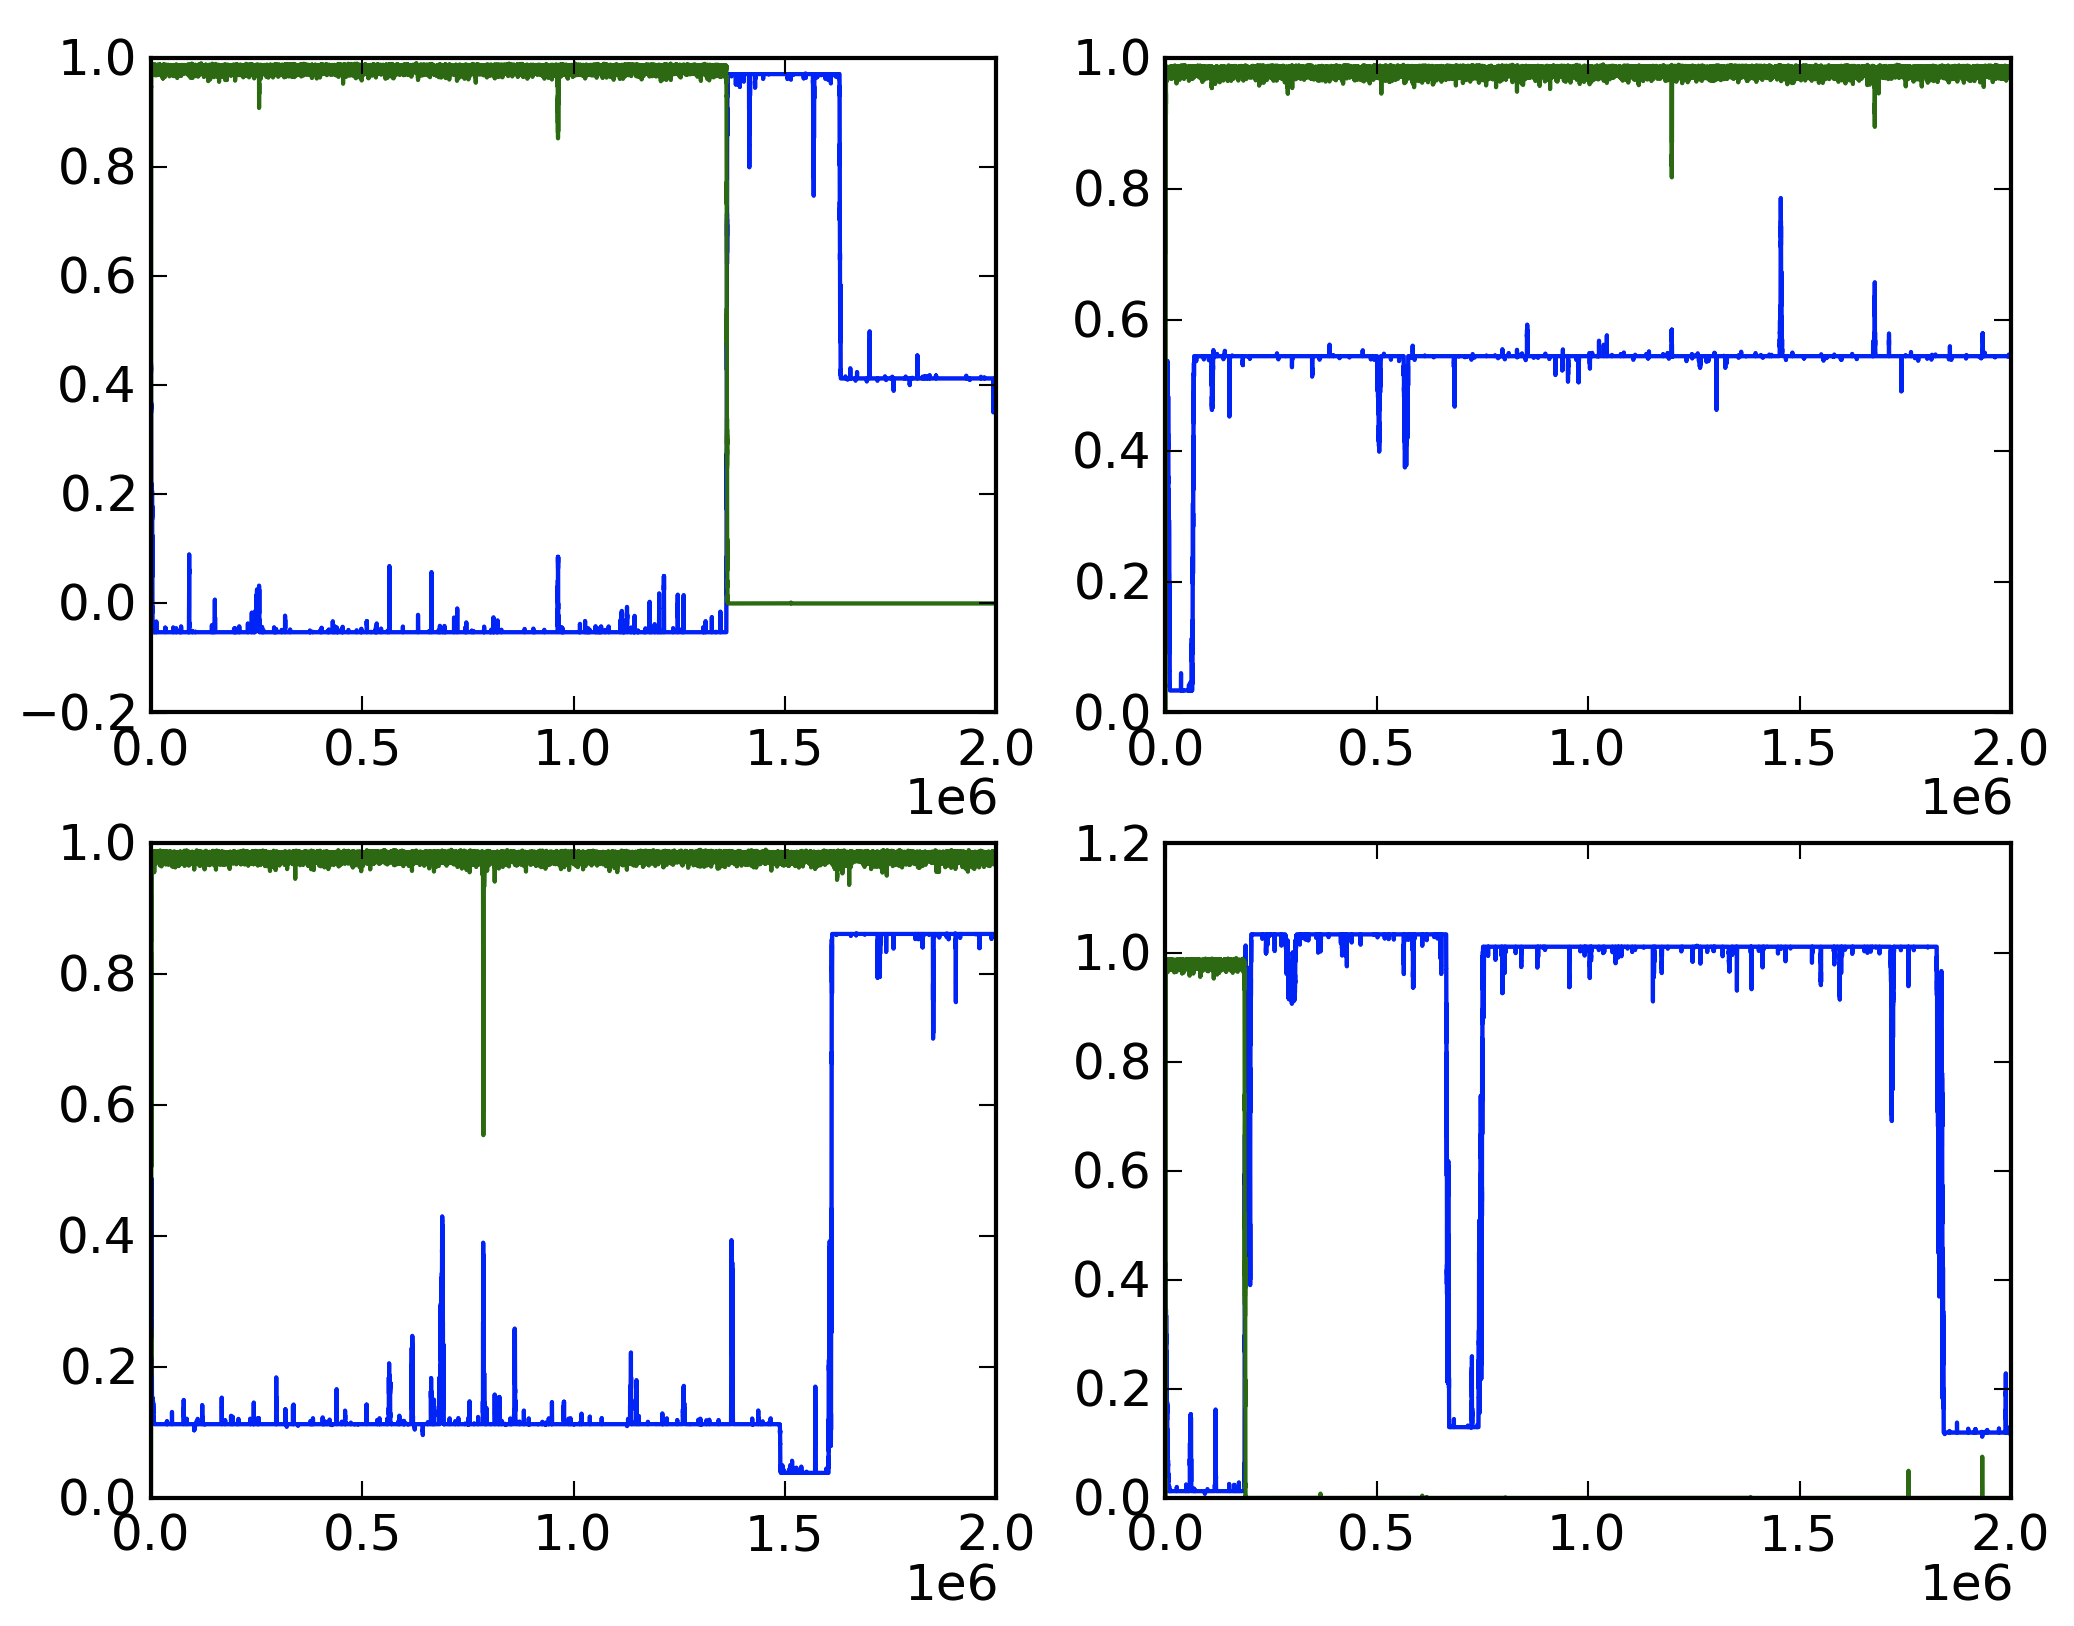
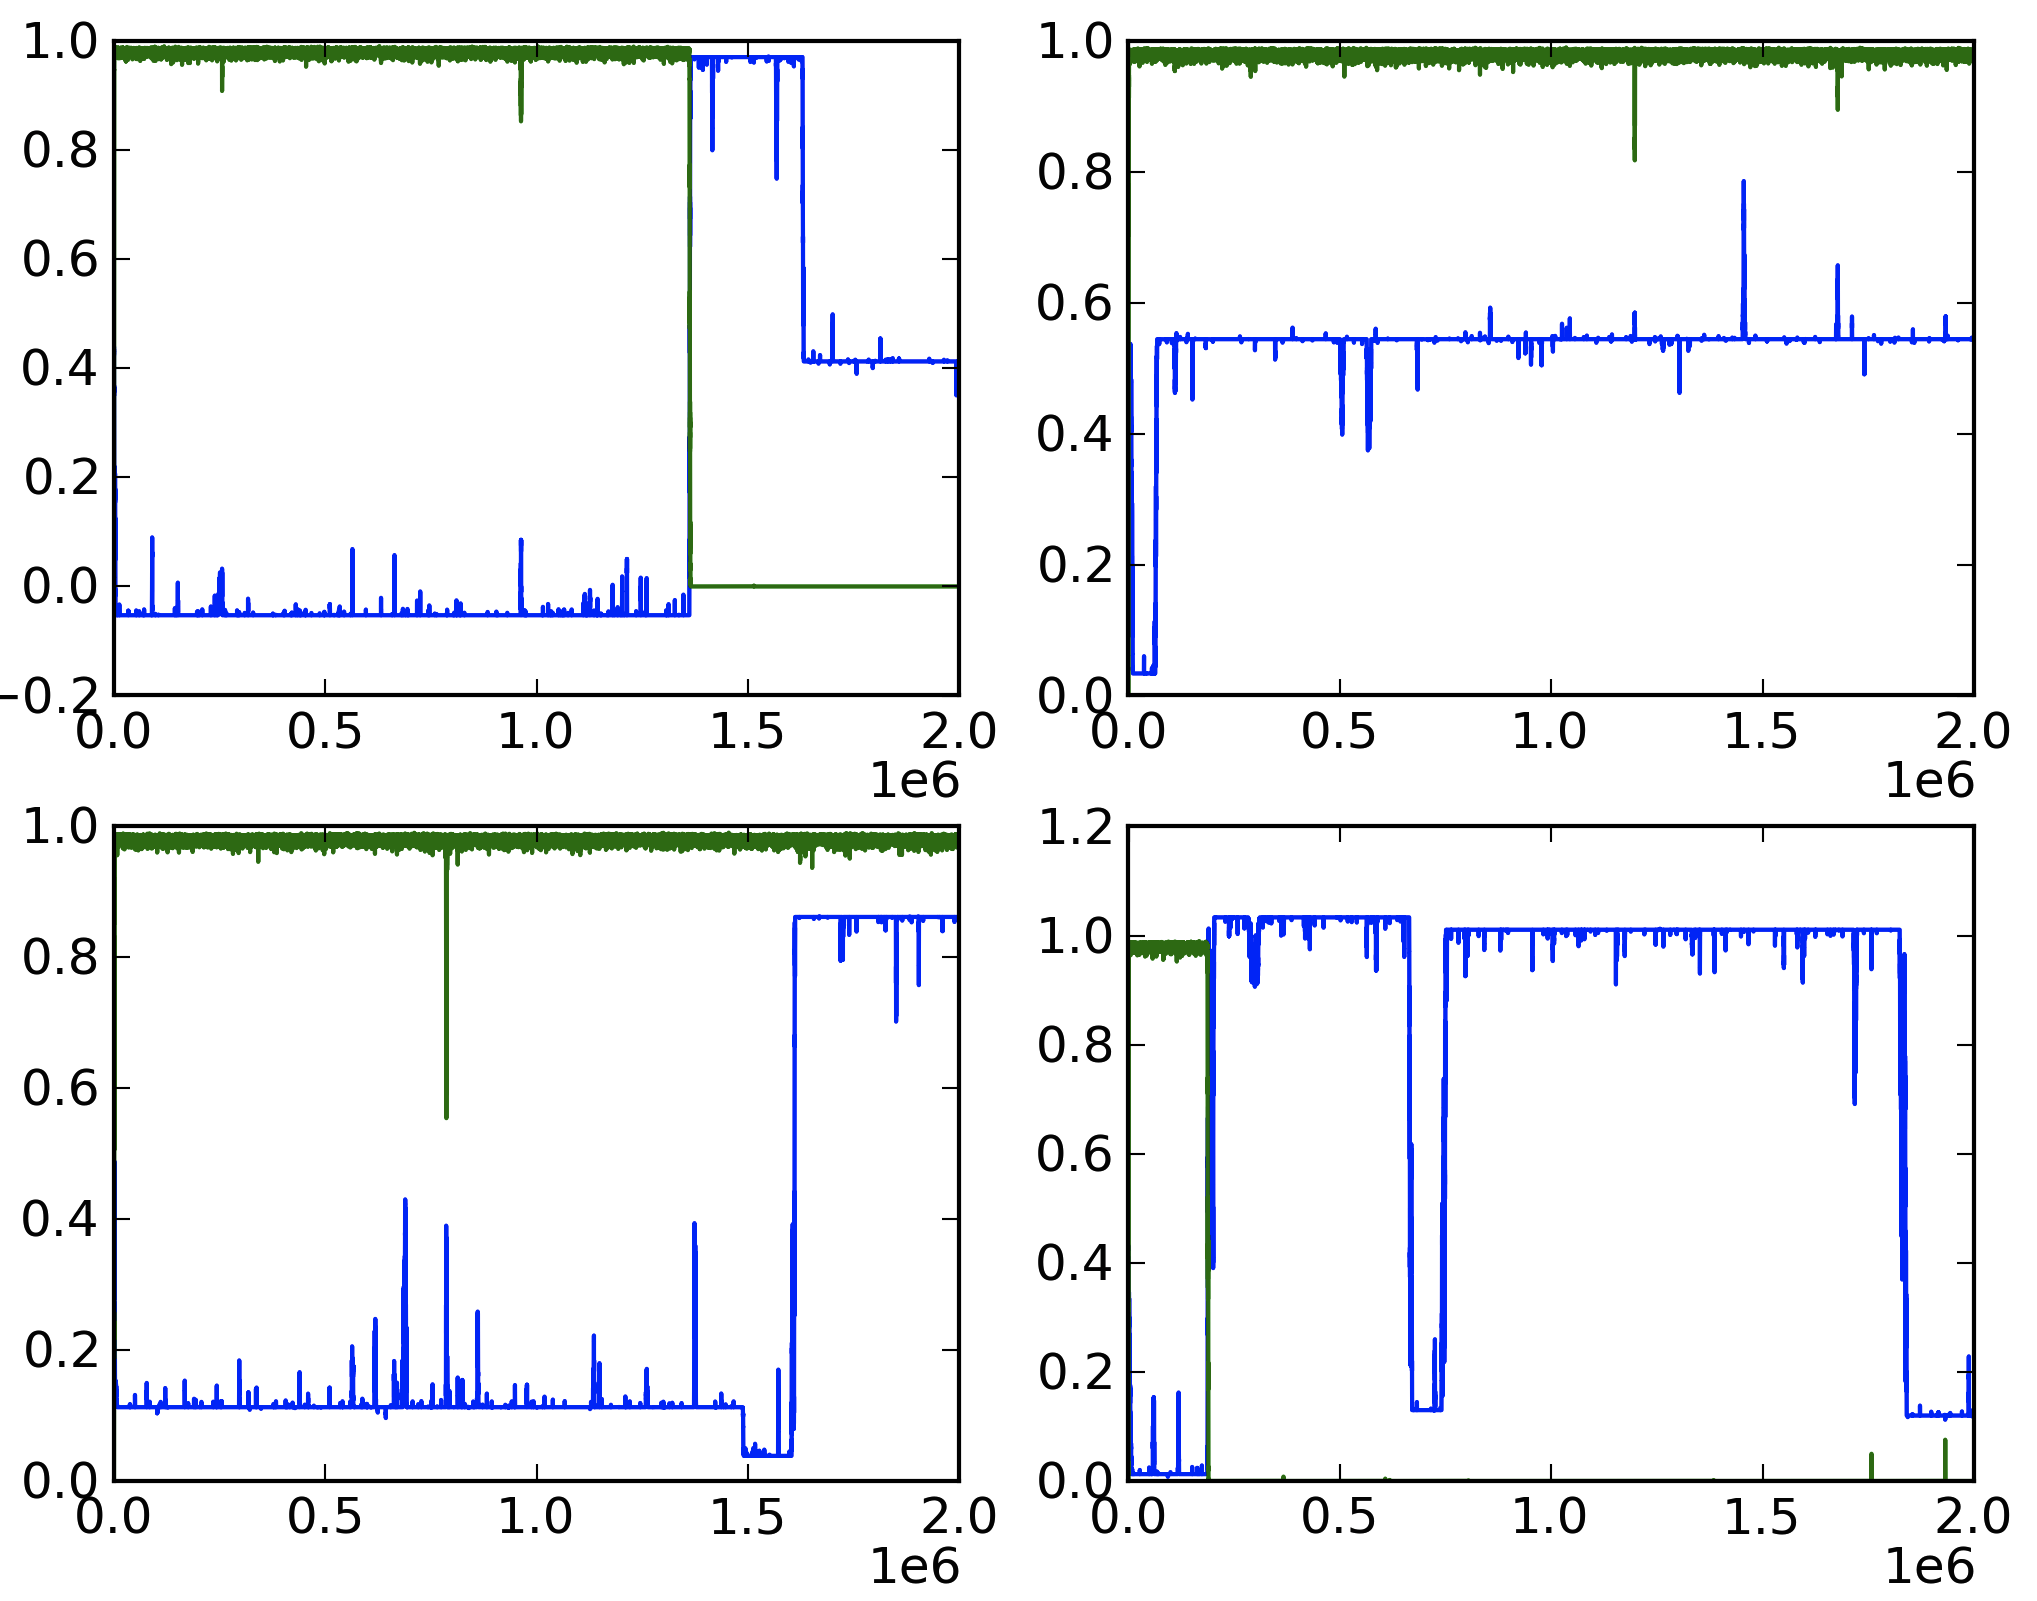
compress space

diff --git a/writeup/writeup.tex b/writeup/writeup.tex
@@ -7,6 +7,9 @@
 \usepackage[lmargin=1.5in, tmargin=1.25in, 
             rmargin=1.5in, bmargin=1.25in]{geometry}
 
+\setlength{\abovecaptionskip}{3pt}
+\setlength{\belowcaptionskip}{2pt}
+
 \newcommand{\lf}{\left}
 \newcommand{\ri}{\right}
 \newcommand{\eps}{\epsilon}
@@ -439,8 +442,8 @@ seen in Figures \ref{fig:really}--\subref{fig:what} below.
 \begin{figure}[h!tbp]
   \begin{subfigure}{.485\linewidth}
     \includegraphics[width=\linewidth]{really.png}
-    \caption{Observe that in the first two runs, cooperation emerges
-      even after a selfish strategy has fixated.}
+    \caption{In the first two runs, cooperation emerges even after a
+      selfish strategy has fixated.}
     \label{fig:really}
   \end{subfigure}
   \hspace{.01\linewidth}
